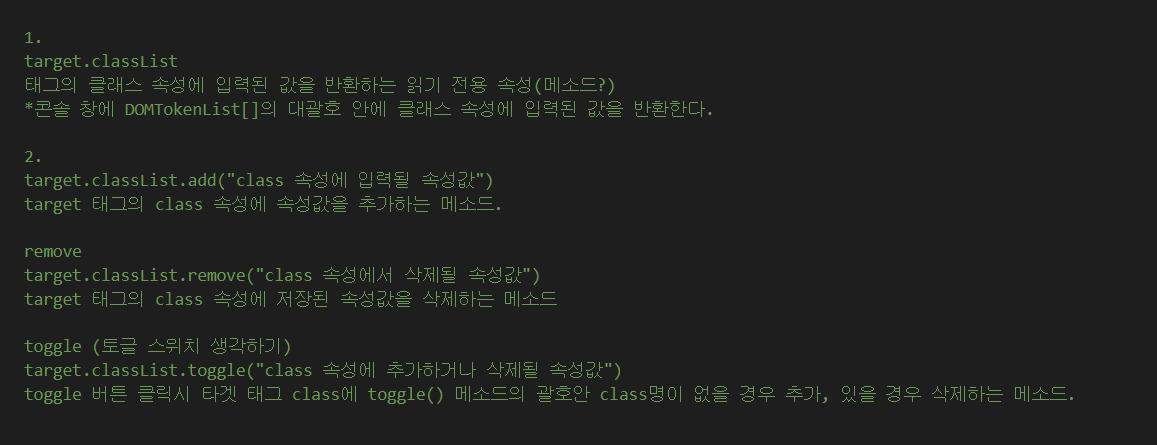
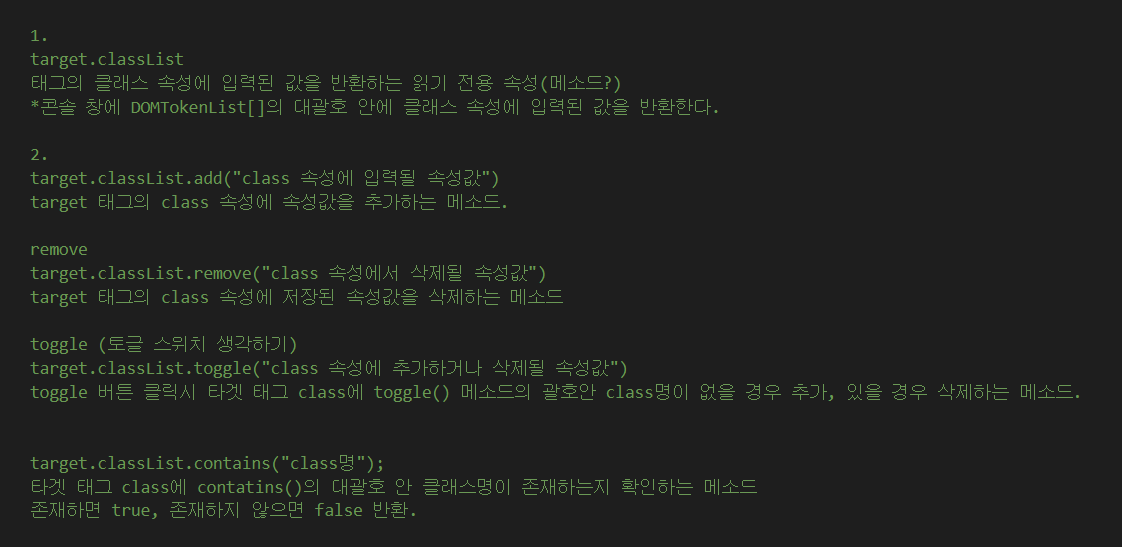
study

diff --git a/03 JavaScript/22 classList/00 classList.js b/03 JavaScript/22 classList/00 classList.js
@@ -19,6 +19,10 @@ toggleBtn.addEventListener('click', function(){
     textH2.classList.toggle('text') // 
 }) // toggle 버튼 클릭시 타겟 태그 class에 toggle() 메소드의 괄호안 class명이 없을 경우 추가, 있을 경우 삭제를 한다.
 
+
+// contains
+console.log(textH1.classList.contains('text'));
+
 /*
 
 1.
@@ -38,6 +42,10 @@ toggle (토글 스위치 생각하기)
 target.classList.toggle("class 속성에 추가하거나 삭제될 속성값")
 toggle 버튼 클릭시 타겟 태그 class에 toggle() 메소드의 괄호안 class명이 없을 경우 추가, 있을 경우 삭제하는 메소드.
 
+
+target.classList.contains("class명");
+타겟 태그 class에 contatins()의 대괄호 안 클래스명이 존재하는지 확인하는 메소드
+존재하면 true, 존재하지 않으면 false 반환.
 
 */  
 
